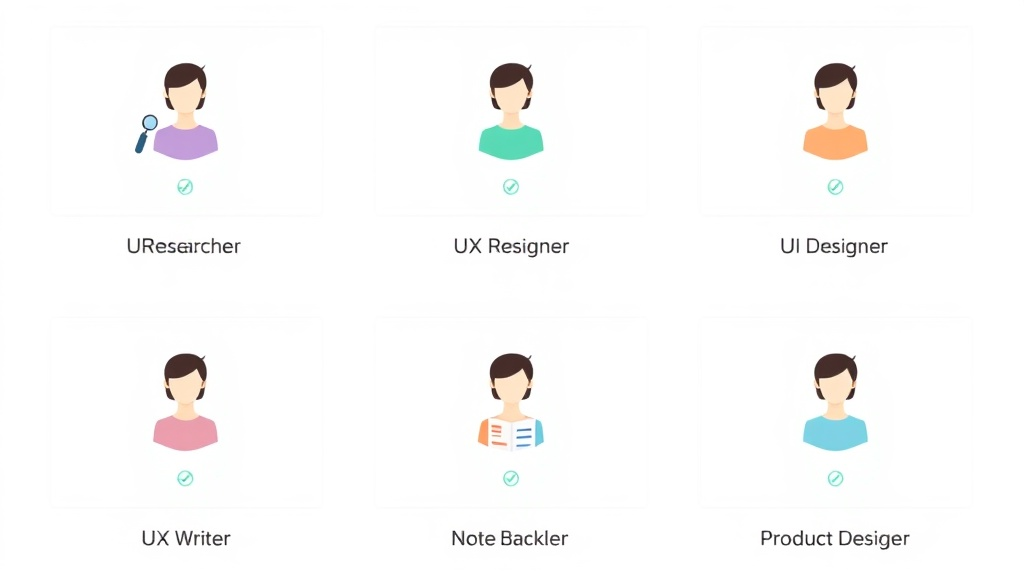
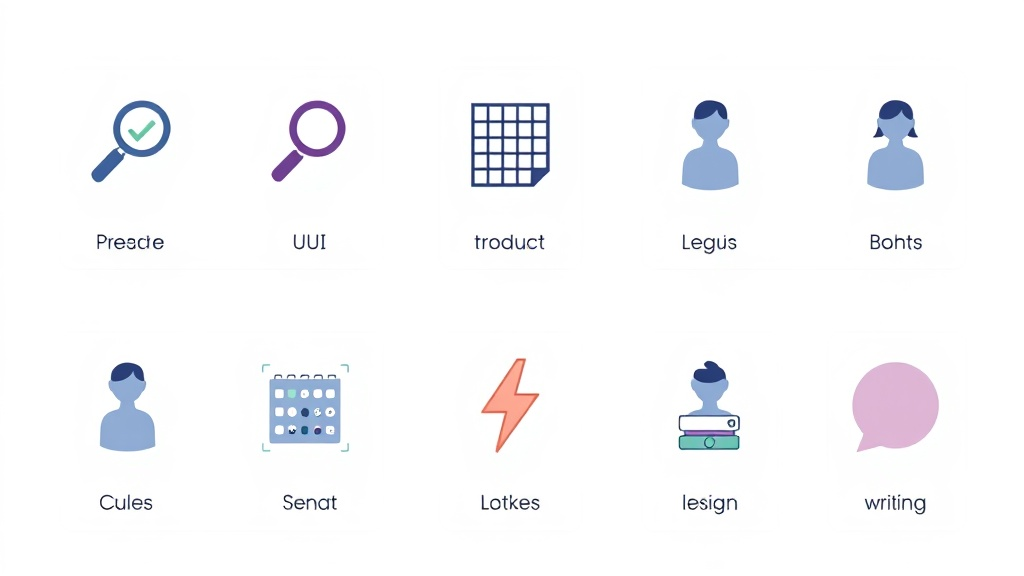
fix(meeting-02): post-QA polish — text-free images, factual fixes
Following the QA + factual-review pass on part-2:

Images (regenerated text-free, captions hold the meaning):
- meeting-02-double-diamond.webp — diamonds + four small phase-icons
  above (magnifier / target / lightbulbs / rocket); no Cyrillic baked in.
- meeting-02-ux-team-roles.webp — six identical cards with avatars and
  distinct tool icons; no role labels in the image.
- Updated both image captions in data: Double Diamond now reads
  "Исследование → Определение → Разработка → Реализация" (EN: Discover →
  Define → Develop → Deliver). Team-roles caption now lists the actual
  six covered (Researcher, UX, UI, Product, Design System Lead, Writer)
  — previously promised "Design Engineer" which the section never
  introduced.

Factual fixes (RU + EN):
- "Тинькофф" → "Т-Банк" (rebranded 2024).
- Drop "Adobe XD" (Adobe stopped active development 2023) and
  "Principle" (last meaningful release ~2019) from UX/UI tools list.
- Drop "Illustrator" as a primary UI tool — replaced with "After
  Effects, Rive" (motion is more relevant in 2026 UI work).
- "Структура дизайн-системы" diagram now attributed to Brad Frost's
  Atomic Design.
- Israeli salary ranges aligned with 2026 market (Junior ₪10–15k,
  Middle ₪15–24k, Senior ₪24–38k, Staff/Principal ₪40–65k+).
- "Найдите 3 вакансии … на hh.ru" updated with LinkedIn / AllJobs
  (Israel) for the actual student audience.

diff --git a/data/meetings/meeting-02.ts b/data/meetings/meeting-02.ts
@@ -465,7 +465,7 @@ export const meeting02: Meeting = {
           type: 'image' as const,
           src: '/images/meeting-02-ux-team-roles.webp',
           alt: 'Шесть ключевых ролей в UX/UI-команде с иконками инструментов',
-          caption: 'Researcher, UX, UI, Writer, Design Engineer, Product Designer — шесть ролей, шесть фокусов.',
+          caption: 'UX Researcher, UX Designer, UI Designer, Product Designer, Design System Lead, UX Writer — шесть ролей в команде.',
         },
         {
           type: 'subheading' as const,
@@ -544,7 +544,7 @@ export const meeting02: Meeting = {
             {
               label: 'Инструменты',
               ux: 'Figma (wireframes), Miro, FigJam',
-              ui: 'Figma (hi-fi), Illustrator, After Effects',
+              ui: 'Figma (hi-fi), After Effects, Rive',
             },
             {
               label: 'Метрика успеха',
@@ -574,7 +574,7 @@ export const meeting02: Meeting = {
           type: 'callout' as const,
           variant: 'example' as const,
           content:
-            'В Яндексе, VK и Тинькофф Product Designer работает в одной команде с продакт-менеджером и разработчиками. Он участвует во всех этапах — от исследования до запуска фичи.',
+            'В Яндексе, VK и Т-Банке Product Designer работает в одной команде с продакт-менеджером и разработчиками. Он участвует во всех этапах — от исследования до запуска фичи.',
         },
 
         {
@@ -588,8 +588,8 @@ export const meeting02: Meeting = {
         },
         {
           type: 'diagram' as const,
-          title: 'Структура дизайн-системы',
-          description: 'Компоненты дизайн-системы от базовых токенов до готовых паттернов',
+          title: 'Структура дизайн-системы (Atomic Design)',
+          description: 'Компоненты дизайн-системы от токенов до страниц по методологии Atomic Design Брэда Фроста',
           items: [
             'Токены (цвета, шрифты, отступы, тени)',
             'Атомы (кнопка, инпут, иконка, чекбокс)',
@@ -744,7 +744,7 @@ export const meeting02: Meeting = {
           type: 'image' as const,
           src: '/images/meeting-02-double-diamond.webp',
           alt: 'Диаграмма Double Diamond: Discover, Define, Develop, Deliver',
-          caption: 'Двойной ромб: расходимся → сходимся → расходимся → сходимся.',
+          caption: 'Double Diamond: Исследование → Определение → Разработка → Реализация.',
         },
         {
           type: 'callout' as const,
@@ -789,7 +789,7 @@ export const meeting02: Meeting = {
                 'Глубокая экспертиза в одной области',
                 'Senior может зарабатывать как менеджер',
                 'Фокус на craft и менторство',
-                '**Ставка в Израиле:** Junior ₪8–14k · Middle ₪14–22k · Senior ₪22–35k · Staff/Principal ₪35–55k+',
+                '**Ставка в Израиле:** Junior ₪10–15k · Middle ₪15–24k · Senior ₪24–38k · Staff/Principal ₪40–65k+',
               ],
             },
             {
@@ -887,7 +887,7 @@ export const meeting02: Meeting = {
           persona: {
             name: 'Анна Петрова',
             age: 28,
-            role: 'Middle Product Designer @ Тинькофф',
+            role: 'Middle Product Designer @ Т-Банк',
             bio: 'Закончила курс по UX/UI 3 года назад. Начинала как junior UI designer в небольшой студии. Через 1.5 года перешла в продуктовую компанию. Сейчас ведёт дизайн мобильного банкинга.',
             goals: [
               'Вырасти до Senior Product Designer',
@@ -926,7 +926,7 @@ export const meeting02: Meeting = {
             },
             {
               title: 'UX/UI Design',
-              items: ['Figma', 'Sketch', 'Adobe XD', 'Framer', 'Principle'],
+              items: ['Figma', 'Sketch', 'Framer', 'Penpot', 'Rive'],
             },
             {
               title: 'Дизайн-системы',
@@ -960,7 +960,7 @@ export const meeting02: Meeting = {
           title: 'Домашнее задание',
           items: [
             'Выберите 2-3 роли, которые вас привлекают',
-            'Найдите 3 вакансии каждой роли на hh.ru — сравните требования',
+            'Найдите 3 вакансии каждой роли на LinkedIn / AllJobs (Israel) или hh.ru (RU/CIS) — сравните требования',
             'Прочитайте 1 статью Якоба Нильсена на nngroup.com',
             'Попробуйте описать Double Diamond своими словами',
           ],

diff --git a/data/meetings/en/meeting-02.ts b/data/meetings/en/meeting-02.ts
@@ -465,7 +465,7 @@ export const meeting02: Meeting = {
           type: 'image' as const,
           src: '/images/meeting-02-ux-team-roles.webp',
           alt: 'Six key UX/UI team roles with their tool icons',
-          caption: 'Researcher, UX, UI, Writer, Design Engineer, Product Designer — six roles, six focuses.',
+          caption: 'UX Researcher, UX Designer, UI Designer, Product Designer, Design System Lead, UX Writer — six roles in the team.',
         },
         {
           type: 'subheading' as const,
@@ -544,7 +544,7 @@ export const meeting02: Meeting = {
             {
               label: 'Tools',
               ux: 'Figma (wireframes), Miro, FigJam',
-              ui: 'Figma (hi-fi), Illustrator, After Effects',
+              ui: 'Figma (hi-fi), After Effects, Rive',
             },
             {
               label: 'Success Metric',
@@ -588,8 +588,8 @@ export const meeting02: Meeting = {
         },
         {
           type: 'diagram' as const,
-          title: 'Design System Structure',
-          description: 'Design system components from base tokens to ready-made patterns',
+          title: 'Design System Structure (Atomic Design)',
+          description: "Design system components from tokens to pages, following Brad Frost's Atomic Design methodology",
           items: [
             'Tokens (colors, fonts, spacing, shadows)',
             'Atoms (button, input, icon, checkbox)',
@@ -744,7 +744,7 @@ export const meeting02: Meeting = {
           type: 'image' as const,
           src: '/images/meeting-02-double-diamond.webp',
           alt: 'Double Diamond diagram: Discover, Define, Develop, Deliver',
-          caption: 'Double Diamond: diverge → converge → diverge → converge.',
+          caption: 'Double Diamond: Discover → Define → Develop → Deliver.',
         },
         {
           type: 'callout' as const,
@@ -789,7 +789,7 @@ export const meeting02: Meeting = {
                 'Deep expertise in one area',
                 'Seniors can earn as much as managers',
                 'Focus on craft and mentorship',
-                '**Israel salary range:** Junior ₪8–14k · Middle ₪14–22k · Senior ₪22–35k · Staff/Principal ₪35–55k+',
+                '**Israel salary range:** Junior ₪10–15k · Middle ₪15–24k · Senior ₪24–38k · Staff/Principal ₪40–65k+',
               ],
             },
             {
@@ -926,7 +926,7 @@ export const meeting02: Meeting = {
             },
             {
               title: 'UX/UI Design',
-              items: ['Figma', 'Sketch', 'Adobe XD', 'Framer', 'Principle'],
+              items: ['Figma', 'Sketch', 'Framer', 'Penpot', 'Rive'],
             },
             {
               title: 'Design Systems',
@@ -960,7 +960,7 @@ export const meeting02: Meeting = {
           title: 'Homework',
           items: [
             'Choose 2-3 roles that appeal to you',
-            'Find 3 job listings for each role on LinkedIn — compare the requirements',
+            'Find 3 job listings for each role on LinkedIn / AllJobs (Israel) — compare the requirements',
             'Read 1 article by Jakob Nielsen on nngroup.com',
             'Try to describe the Double Diamond in your own words',
           ],
